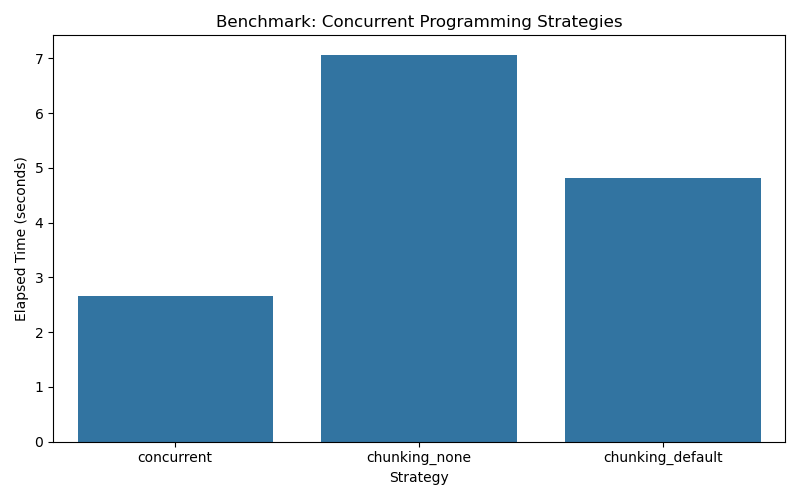
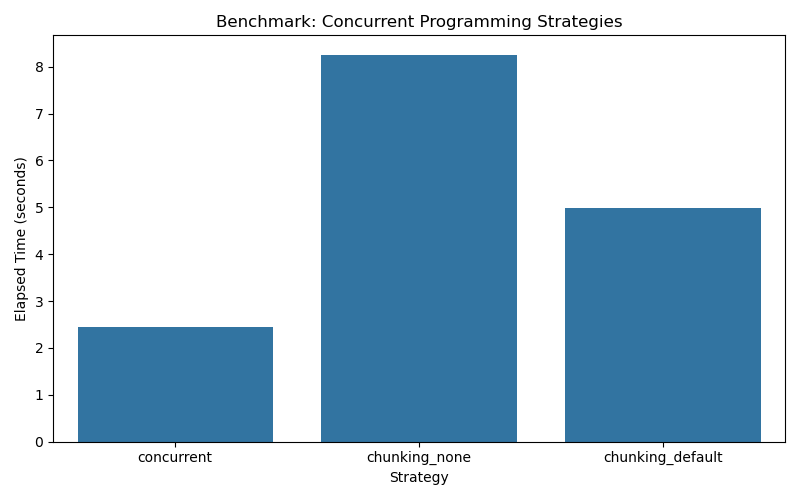
data analysis and benchmarking

diff --git a/Zsun.DataTypes.Jan2024/src/zsun_rider_item.py b/Zsun.DataTypes.Jan2024/src/zsun_rider_item.py
@@ -416,8 +416,8 @@ class ZsunRiderItem:
 
     def calculate_strength_wkg(self) -> float:
         if self.weight_kg == 0:
-            return self.get_permitted_2_minute_pull_watts()/80.0 # arbitrary default 80kg
-        return self.get_permitted_2_minute_pull_watts()/self.weight_kg
+            return self.get_standard_2_minute_pull_watts()/80.0 # arbitrary default 80kg
+        return self.get_standard_2_minute_pull_watts()/self.weight_kg
 
     def calculate_kph_riding_alone(self, power: float) -> float:
         """
@@ -500,58 +500,58 @@ class ZsunRiderItem:
         
         return round(speed_kph, 3)
 
-    def calculate_speed_at_permitted_30sec_pull_watts(self) -> float:
+    def calculate_speed_at_standard_30sec_pull_watts(self) -> float:
         """
         Calculate the speed (km/h) for a rider given their 30-second pull power output (watts).
         Returns:
         float: The estimated speed in km/h.
         """
         # Estimate the speed in km/h using the estimate_speed_from_wattage function
-        speed_kph = estimate_speed_from_wattage(self.get_permitted_30sec_pull_watts(), self.weight_kg, self.height_cm)
+        speed_kph = estimate_speed_from_wattage(self.get_standard_30sec_pull_watts(), self.weight_kg, self.height_cm)
         
         return round(speed_kph, 3)
 
-    def calculate_speed_at_permitted_1_minute_pull_watts(self) -> float:
+    def calculate_speed_at_standard_1_minute_pull_watts(self) -> float:
         """
         Calculate the speed (km/h) for a rider given their 1-minute pull power output (watts).
         Returns:
         float: The estimated speed in km/h.
         """
         # Estimate the speed in km/h using the estimate_speed_from_wattage function
-        speed_kph = estimate_speed_from_wattage(self.get_permitted_1_minute_pull_watts(), self.weight_kg, self.height_cm)
+        speed_kph = estimate_speed_from_wattage(self.get_standard_1_minute_pull_watts(), self.weight_kg, self.height_cm)
         
         return round(speed_kph, 3)
 
-    def calculate_speed_at_permitted_2_minute_pull_watts(self) -> float:
+    def calculate_speed_at_standard_2_minute_pull_watts(self) -> float:
         """
         Calculate the speed (km/h) for a rider given their 2-minute pull power output (watts).
         Returns:
         float: The estimated speed in km/h.
         """
         # Estimate the speed in km/h using the estimate_speed_from_wattage function
-        speed_kph = estimate_speed_from_wattage(self.get_permitted_2_minute_pull_watts(), self.weight_kg, self.height_cm)
+        speed_kph = estimate_speed_from_wattage(self.get_standard_2_minute_pull_watts(), self.weight_kg, self.height_cm)
         
         return round(speed_kph, 3)
 
-    def calculate_speed_at_permitted_3_minute_pull_watts(self) -> float:
+    def calculate_speed_at_standard_3_minute_pull_watts(self) -> float:
         """
         Calculate the speed (km/h) for a rider given their 3-minute pull power output (watts).
         Returns:
         float: The estimated speed in km/h.
         """
         # Estimate the speed in km/h using the estimate_speed_from_wattage function
-        speed_kph = estimate_speed_from_wattage(self.get_permitted_3_minute_pull_watts(), self.weight_kg, self.height_cm)
+        speed_kph = estimate_speed_from_wattage(self.get_standard_3_minute_pull_watts(), self.weight_kg, self.height_cm)
         
         return round(speed_kph, 3)
 
-    def calculate_speed_at_permitted_4_minute_pull_watts(self) -> float:
+    def calculate_speed_at_standard_4_minute_pull_watts(self) -> float:
         """
         Calculate the speed (km/h) for a rider given their 4-minute pull power output (watts).
         Returns:
         float: The estimated speed in km/h.
         """
         # Estimate the speed in km/h using the estimate_speed_from_wattage function
-        speed_kph = estimate_speed_from_wattage(self.get_permitted_4_minute_pull_watts(), self.weight_kg, self.height_cm)
+        speed_kph = estimate_speed_from_wattage(self.get_standard_4_minute_pull_watts(), self.weight_kg, self.height_cm)
         
         return round(speed_kph, 3)
 
@@ -591,34 +591,34 @@ class ZsunRiderItem:
             return 0.0
         return self.zwiftracingapp_zpFTP / self.weight_kg
 
-    def get_permitted_30sec_pull_watts(self) -> float:
+    def get_standard_30sec_pull_watts(self) -> float:
         # apply 3.5 minute watts
         pull_short = decay_model_numpy(np.array([210]), self.zsun_TTT_pull_curve_coefficient, self.zsun_TTT_pull_curve_exponent)
         one_hour = decay_model_numpy(np.array([210]), self.zsun_one_hour_curve_coefficient, self.zsun_one_hour_curve_exponent)
         answer = max(pull_short[0], one_hour[0])
         return answer
 
-    def get_permitted_1_minute_pull_watts(self) -> float:
+    def get_standard_1_minute_pull_watts(self) -> float:
         # apply 5 minute watts
         pull_medium = decay_model_numpy(np.array([300]), self.zsun_TTT_pull_curve_coefficient, self.zsun_TTT_pull_curve_exponent)
         one_hour = decay_model_numpy(np.array([300]), self.zsun_one_hour_curve_coefficient, self.zsun_one_hour_curve_exponent)
         answer = max(pull_medium[0], one_hour[0])
         return answer
 
-    def get_permitted_2_minute_pull_watts(self) -> float:
+    def get_standard_2_minute_pull_watts(self) -> float:
         # apply 12 minute watts
         pull_long = decay_model_numpy(np.array([720]), self.zsun_TTT_pull_curve_coefficient, self.zsun_TTT_pull_curve_exponent)
         one_hour = decay_model_numpy(np.array([720]), self.zsun_one_hour_curve_coefficient, self.zsun_one_hour_curve_exponent)
         answer = max(pull_long[0], one_hour[0])
         return answer
 
-    def get_permitted_3_minute_pull_watts(self) -> float:
+    def get_standard_3_minute_pull_watts(self) -> float:
         # apply 15 minute watts
         one_hour = decay_model_numpy(np.array([900]), self.zsun_one_hour_curve_coefficient, self.zsun_one_hour_curve_exponent)
         answer = one_hour[0]
         return answer
 
-    def get_permitted_4_minute_pull_watts(self) -> float:
+    def get_standard_4_minute_pull_watts(self) -> float:
         # apply 20 minute watts
         one_hour = decay_model_numpy(np.array([1200]), self.zsun_one_hour_curve_coefficient, self.zsun_one_hour_curve_exponent)
         answer = one_hour[0]
@@ -649,17 +649,17 @@ class ZsunRiderItem:
         answer = power[0]
         return answer
 
-    def lookup_permissable_pull_watts(self, seconds : float)-> float:
+    def lookup_standard_pull_watts(self, seconds : float)-> float:
         permissable_watts = self.get_1_hour_watts() # default
 
         if seconds == 30:
-            permissable_watts = self.get_permitted_30sec_pull_watts()
+            permissable_watts = self.get_standard_30sec_pull_watts()
         if seconds == 60:
-            permissable_watts = self.get_permitted_1_minute_pull_watts()
+            permissable_watts = self.get_standard_1_minute_pull_watts()
         if seconds == 120:
-            permissable_watts = self.get_permitted_2_minute_pull_watts()
+            permissable_watts = self.get_standard_2_minute_pull_watts()
         if seconds == 240:
-            permissable_watts = self.get_permitted_4_minute_pull_watts()
+            permissable_watts = self.get_standard_4_minute_pull_watts()
          
         return permissable_watts
 

diff --git a/Zsun01/src/formulae/jgh_formulae03.py b/Zsun01/src/formulae/jgh_formulae03.py
@@ -7,7 +7,7 @@ def allocate_riders_to_groups(riders: List[ZsunRiderItem]) -> Tuple[List[ZsunRid
         return [], []
 
     #sort riders according to 1 minute pull speed
-    riders.sort(key=lambda r: r.calculate_speed_at_permitted_2_minute_pull_watts(), reverse=True)
+    riders.sort(key=lambda r: r.calculate_speed_at_standard_2_minute_pull_watts(), reverse=True)
 
     strong_riders: List[ZsunRiderItem] = []
     weak_riders: List[ZsunRiderItem] = []
@@ -28,7 +28,7 @@ def allocate_riders_to_groups(riders: List[ZsunRiderItem]) -> Tuple[List[ZsunRid
 
             return candidate_answer_kph
 
-        if rider.calculate_speed_at_permitted_2_minute_pull_watts() > calculate_fatigue_adjusted_pull_speed(riders[0], current_size_of_strong_group + 1):
+        if rider.calculate_speed_at_standard_2_minute_pull_watts() > calculate_fatigue_adjusted_pull_speed(riders[0], current_size_of_strong_group + 1):
             strong_riders.append(rider)
         else:
             weak_riders.append(rider)
@@ -182,7 +182,7 @@ def main2():
             rider.name,
             rider.calculate_strength_wkg(),
             rider.calculate_speed_at_1_hour_watts(),
-            rider.calculate_speed_at_permitted_1_minute_pull_watts(),
+            rider.calculate_speed_at_standard_1_minute_pull_watts(),
         ]
         for rider in riders
     ]
@@ -210,7 +210,7 @@ def main2():
             rider.name,
             rider.calculate_strength_wkg(),
             rider.calculate_speed_at_1_hour_watts(),
-            rider.calculate_speed_at_permitted_1_minute_pull_watts(),
+            rider.calculate_speed_at_standard_1_minute_pull_watts(),
         ]
         for rider in strong
     ]
@@ -234,7 +234,7 @@ def main2():
             rider.name,
             rider.calculate_strength_wkg(),
             rider.calculate_speed_at_1_hour_watts(),
-            rider.calculate_speed_at_permitted_1_minute_pull_watts(),
+            rider.calculate_speed_at_standard_1_minute_pull_watts(),
         ]
         for rider in weak
     ]
@@ -290,14 +290,14 @@ def main3():
 
     # Table 1: All riders ranked by 2-minute speed
     riders_sorted = sorted(
-        riders, key=lambda r: r.calculate_speed_at_permitted_2_minute_pull_watts(), reverse=True
+        riders, key=lambda r: r.calculate_speed_at_standard_2_minute_pull_watts(), reverse=True
     )
     table = [
         [
             rider.name,
-            format_number_2sig(rider.calculate_speed_at_permitted_2_minute_pull_watts()),
+            format_number_2sig(rider.calculate_speed_at_standard_2_minute_pull_watts()),
             format_number_2sig(rider.get_1_hour_watts() / rider.weight_kg),
-            format_number_2sig(rider.get_permitted_2_minute_pull_watts() / rider.weight_kg),
+            format_number_2sig(rider.get_standard_2_minute_pull_watts() / rider.weight_kg),
         ]
         for rider in riders_sorted
     ]
@@ -322,9 +322,9 @@ def main3():
     table = [
         [
             rider.name,
-            format_number_2sig(rider.calculate_speed_at_permitted_2_minute_pull_watts()),
+            format_number_2sig(rider.calculate_speed_at_standard_2_minute_pull_watts()),
             format_number_2sig(rider.get_1_hour_watts() / rider.weight_kg),
-            format_number_2sig(rider.get_permitted_2_minute_pull_watts() / rider.weight_kg),
+            format_number_2sig(rider.get_standard_2_minute_pull_watts() / rider.weight_kg),
         ]
         for rider in strong
     ]
@@ -346,9 +346,9 @@ def main3():
     table = [
         [
             rider.name,
-            format_number_2sig(rider.calculate_speed_at_permitted_2_minute_pull_watts()),
+            format_number_2sig(rider.calculate_speed_at_standard_2_minute_pull_watts()),
             format_number_2sig(rider.get_1_hour_watts() / rider.weight_kg),
-            format_number_2sig(rider.get_permitted_2_minute_pull_watts() / rider.weight_kg),
+            format_number_2sig(rider.get_standard_2_minute_pull_watts() / rider.weight_kg),
         ]
         for rider in weak
     ]

diff --git a/Zsun01/src/formulae/jgh_formulae08.py b/Zsun01/src/formulae/jgh_formulae08.py
@@ -45,8 +45,8 @@ def log_rider_one_hour_speeds(riders: list[ZsunRiderItem], logger: logging.Logge
             format_number_2sig(rider.get_zsun_1_hour_wkg()),
             format_number_2sig(rider.calculate_speed_at_1_hour_watts()),
             format_number_2sig(rider.zsun_one_hour_watts),
-            format_number_2sig(rider.calculate_speed_at_permitted_30sec_pull_watts()),
-            format_number_2sig(rider.get_permitted_30sec_pull_watts()),
+            format_number_2sig(rider.calculate_speed_at_standard_30sec_pull_watts()),
+            format_number_2sig(rider.get_standard_30sec_pull_watts()),
         ])
 
     headers = [
@@ -80,11 +80,11 @@ def calculate_upper_bound_pull_speed(riders: list[ZsunRiderItem]) -> Tuple[ZsunR
     fastest_duration = 30.0 #arbitrary short
     highest_speed = 0.0  # Arbitrarily low speed
     duration_methods = [
-        (30.0, 'calculate_speed_at_permitted_30sec_pull_watts'),
-        (60.0, 'calculate_speed_at_permitted_1_minute_pull_watts'),
-        (120.0, 'calculate_speed_at_permitted_2_minute_pull_watts'),
-        (180.0, 'calculate_speed_at_permitted_3_minute_pull_watts'),
-        (240.0, 'calculate_speed_at_permitted_4_minute_pull_watts'),
+        (30.0, 'calculate_speed_at_standard_30sec_pull_watts'),
+        (60.0, 'calculate_speed_at_standard_1_minute_pull_watts'),
+        (120.0, 'calculate_speed_at_standard_2_minute_pull_watts'),
+        (180.0, 'calculate_speed_at_standard_3_minute_pull_watts'),
+        (240.0, 'calculate_speed_at_standard_4_minute_pull_watts'),
     ]
     for rider in riders:
         for duration, method_name in duration_methods:
@@ -118,11 +118,11 @@ def calculate_lower_bound_pull_speed(riders: list[ZsunRiderItem]) -> Tuple[ZsunR
     slowest_speed = 100.0  # Arbitrarily high speed
 
     duration_methods = [
-        (30.0, 'calculate_speed_at_permitted_30sec_pull_watts'),
-        (60.0, 'calculate_speed_at_permitted_1_minute_pull_watts'),
-        (120.0, 'calculate_speed_at_permitted_2_minute_pull_watts'),
-        (180.0, 'calculate_speed_at_permitted_3_minute_pull_watts'),
-        (240.0, 'calculate_speed_at_permitted_4_minute_pull_watts'),
+        (30.0, 'calculate_speed_at_standard_30sec_pull_watts'),
+        (60.0, 'calculate_speed_at_standard_1_minute_pull_watts'),
+        (120.0, 'calculate_speed_at_standard_2_minute_pull_watts'),
+        (180.0, 'calculate_speed_at_standard_3_minute_pull_watts'),
+        (240.0, 'calculate_speed_at_standard_4_minute_pull_watts'),
     ]
 
     for rider in riders:
@@ -197,7 +197,7 @@ def diagnose_what_governed_the_top_speed(rider_plans: defaultdict[ZsunRiderItem,
             msg += f" IF > {max_intensity_factor}"
 
         # Step 2: Pull watt limit checks
-        pull_limit = rider.lookup_permissable_pull_watts(plan.p1_duration)
+        pull_limit = rider.lookup_standard_pull_watts(plan.p1_duration)
         if plan.p1_w >= pull_limit:
             msg += " pull (p1) > limit"
 
@@ -269,6 +269,7 @@ def make_a_pull_plan(args: Tuple[
     return make_a_pull_plan_complying_with_exertion_constraints(
         riders, list(standard_pull_periods_seconds), pull_speeds, max_intensity_factor
     )
+
 # --- Main function to search for optimal pull plans using concurrent work-stealing algorithm - no chunking ---
 def search_for_optimal_pull_plans_concurrently(riders: List[ZsunRiderItem],standard_pull_periods_seconds: List[float], binary_search_seed: float,  max_intensity_factor : float
 ) -> Tuple[List[Tuple[int, defaultdict[ZsunRiderItem, RiderPullPlanItem], ZsunRiderItem]],

diff --git a/Zsun01/tools/tool14.py b/Zsun01/tools/tool14.py
@@ -32,12 +32,12 @@ def main():
 
     r01,r01_duration,r01_speed = calculate_upper_bound_pull_speed(riders)
     r02,_,r02_speed = calculate_upper_bound_speed_at_one_hour_watts(riders)
-    logger.info(f"Upper bound pull        :  {round(r01_speed)} kph @ {round(r01.get_permitted_30sec_pull_watts())} W ({format_number_1dp(r01.get_permitted_30sec_pull_watts()/r01.weight_kg)} W/kg) by {r01.name} for a pull of {round(r01_duration)} seconds.")
+    logger.info(f"Upper bound pull        :  {round(r01_speed)} kph @ {round(r01.get_standard_30sec_pull_watts())} W ({format_number_1dp(r01.get_standard_30sec_pull_watts()/r01.weight_kg)} W/kg) by {r01.name} for a pull of {round(r01_duration)} seconds.")
     logger.info(f"Upper bound 1-hour pull :  {round(r02_speed)} kph @ {round(r02.get_1_hour_watts())} W ({format_number_1dp(r02.get_1_hour_watts()/r02.weight_kg)} W/kg) by {r02.name}.")
 
     r01,r01_duration,r01_speed = calculate_lower_bound_pull_speed(riders)
     r02,_,r02_speed = calculate_lower_bound_speed_at_one_hour_watts(riders)
-    logger.info(f"Lower bound pull        :  {round(r01_speed)} kph @ {round(r01.get_permitted_4_minute_pull_watts())} W ({format_number_1dp(r01.get_permitted_4_minute_pull_watts()/r01.weight_kg)} W/kg) by {r01.name} for a pull of {round(r01_duration)} seconds.")
+    logger.info(f"Lower bound pull        :  {round(r01_speed)} kph @ {round(r01.get_standard_4_minute_pull_watts())} W ({format_number_1dp(r01.get_standard_4_minute_pull_watts()/r01.weight_kg)} W/kg) by {r01.name} for a pull of {round(r01_duration)} seconds.")
     logger.info(f"Lower bound 1-hour pull :  {round(r02_speed)} kph @ {round(r02.get_1_hour_watts())} W ({format_number_1dp(r02.get_1_hour_watts()/r02.weight_kg)} W/kg) by {r02.name}.")
 
     lowest_bound_speed = round(min(truncate(r01_speed, 0), truncate(r02_speed,0),1)) # round to lowest 1 kph, as a float

diff --git a/Zsun01/tools/tool13.py b/Zsun01/tools/tool13.py
@@ -29,12 +29,12 @@ def main():
 
     r01,r01_duration,r01_speed = calculate_upper_bound_pull_speed(riders)
     r02,_,r02_speed = calculate_upper_bound_speed_at_one_hour_watts(riders)
-    logger.info(f"Upper bound pull        :  {round(r01_speed)} kph @ {round(r01.get_permitted_30sec_pull_watts())} W ({round(r01.get_permitted_30sec_pull_watts()/r01.weight_kg, 1)} W/kg) by {r01.name} for a pull of {round(r01_duration)} seconds.")
+    logger.info(f"Upper bound pull        :  {round(r01_speed)} kph @ {round(r01.get_standard_30sec_pull_watts())} W ({round(r01.get_standard_30sec_pull_watts()/r01.weight_kg, 1)} W/kg) by {r01.name} for a pull of {round(r01_duration)} seconds.")
     logger.info(f"Upper bound 1-hour pull :  {round(r02_speed)} kph @ {round(r02.get_1_hour_watts())} W ({round(r02.get_1_hour_watts()/r02.weight_kg, 1)} W/kg) by {r02.name}.")
 
     r01,r01_duration,r01_speed = calculate_lower_bound_pull_speed(riders)
     r02,_,r02_speed = calculate_lower_bound_speed_at_one_hour_watts(riders)
-    logger.info(f"Lower bound pull        :  {round(r01_speed)} kph @ {round(r01.get_permitted_4_minute_pull_watts())} W ({round(r01.get_permitted_4_minute_pull_watts()/r01.weight_kg)} W/kg) by {r01.name} for a pull of {round(r01_duration)} seconds.")
+    logger.info(f"Lower bound pull        :  {round(r01_speed)} kph @ {round(r01.get_standard_4_minute_pull_watts())} W ({round(r01.get_standard_4_minute_pull_watts()/r01.weight_kg)} W/kg) by {r01.name} for a pull of {round(r01_duration)} seconds.")
     logger.info(f"Lower bound 1-hour pull :  {round(r02_speed)} kph @ {round(r02.get_1_hour_watts())} W ({round(r02.get_1_hour_watts()/r02.weight_kg, 1)} W/kg) by {r02.name}.")
 
     lowest_bound_speed = round(min(truncate(r01_speed, 0), truncate(r02_speed,0),1)) # round to lowest 1 kph, as a float

diff --git a/Zsun01/src/repositories/repository_of_teams.py b/Zsun01/src/repositories/repository_of_teams.py
@@ -58,7 +58,7 @@ betelguese_Roster = defaultdict(
         # "5490373": "barry_beck",
         # "991817": "brandi_steeve",
         "9011": "bryan_bumpas",
-        # "5569057": "cory_cook",
+        "5569057": "cory_cook",
         "3147366": "dave_konicek",
         # "4945836": "david_evanetich",
         # # "183277": "giao_nguyen",
@@ -74,8 +74,8 @@ betelguese_Roster = defaultdict(
         # # "11526": "scott_mcveigh",
         # "1956": "scott_yarosh",
         # # "2682791": "selena_shaikh",
-        # # "6142432": "steve_seiler",
-        # # "5421258": "tim_reid",
+        # "6142432": "steve_seiler",
+        # "5421258": "tim_reid",
         # "11741": "tom_bick",
     }
 )

diff --git a/Zsun01/tools/tool05.py b/Zsun01/tools/tool05.py
@@ -98,7 +98,7 @@ def main():
 
     logger.info(f"\n{summary_cp_w_prime}")
 
-    summary_pull = f"TTT pull power (W) (30-60-120-240 seconds) = {round(pi.get_permitted_30sec_pull_watts())} - {round(pi.get_permitted_1_minute_pull_watts())} - {round(pi.get_permitted_2_minute_pull_watts())} - {round(pi.get_permitted_4_minute_pull_watts())}"
+    summary_pull = f"TTT pull power (W) (30-60-120-240 seconds) = {round(pi.get_standard_30sec_pull_watts())} - {round(pi.get_standard_1_minute_pull_watts())} - {round(pi.get_standard_2_minute_pull_watts())} - {round(pi.get_standard_4_minute_pull_watts())}"
 
     logger.info(f"\n{summary_pull}")
 

diff --git a/Zsun01/Tests/test_concurrent_programming_strategies.py b/Zsun01/Tests/test_concurrent_programming_strategies.py
@@ -4,7 +4,7 @@ jgh_configure_logging("appsettings.json")
 logger = logging.getLogger(__name__)
 logging.getLogger('matplotlib').setLevel(logging.WARNING)
 
-save_filename_without_ext = "compare_concurrent_programming_strategies_3_riders"
+save_filename_without_ext = "compare_concurrent_programming_strategies_9_riders"
 
 def main01():
     from handy_utilities import read_dict_of_zsunriderItems

diff --git a/Zsun01/Tests/test_constraining_pull_plans.py b/Zsun01/Tests/test_constraining_pull_plans.py
@@ -57,6 +57,26 @@ def main():
     
     logger.info(f"\n\n\nReport: did {format_number_comma_separators(total_compute_iterations)} iterations to evaluate {format_number_comma_separators(total_num_of_all_conceivable_plans)} alternatives in {format_duration_hms(compute_time)} \n\n")
 
+
+
+
+
+
+
+
+
+
+
+
+
+
+
+
+
+
+
+
+
 if __name__ == "__main__":
     main()
 
